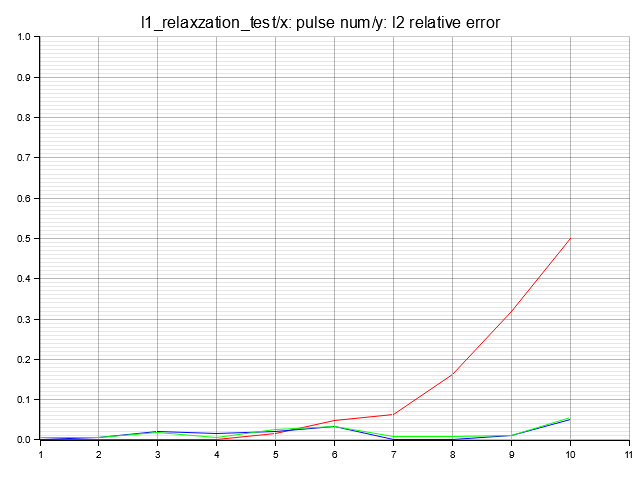
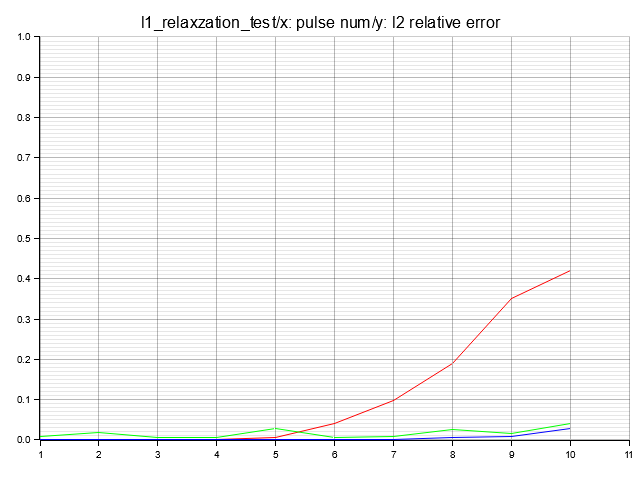
add results

diff --git a/src/lib.rs b/src/lib.rs
@@ -487,11 +487,11 @@ mod tests {
         //set algorithms
         let omp = Omp::new(threshold);
         let lasso_by_bp = SparseAlgLasso::new(
-            1e-3,
-            Box::new(LassoFista::new(10000, bs_threshold)),
+            1e-4,
+            Box::new(LassoFista::new(50000, bs_threshold)),
             true,
         );
-        let focuss = L1Focuss::new(bs_threshold, 50, true);
+        let focuss = L1Focuss::new(bs_threshold, 200, true);
 
         //ThresholdAlg, Wmp, Mp, Ompの順で結果を格納
         let mut supp_dist_list = Vec::<(usize, [f64; 3])>::new();
